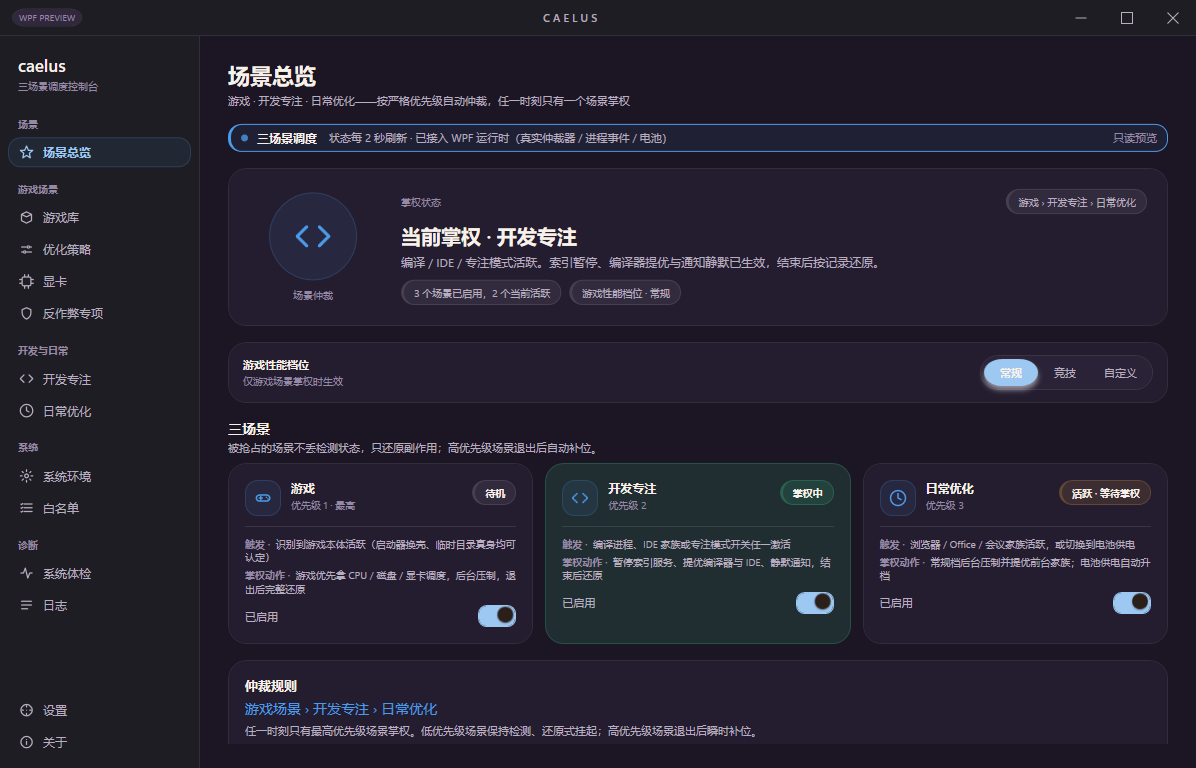
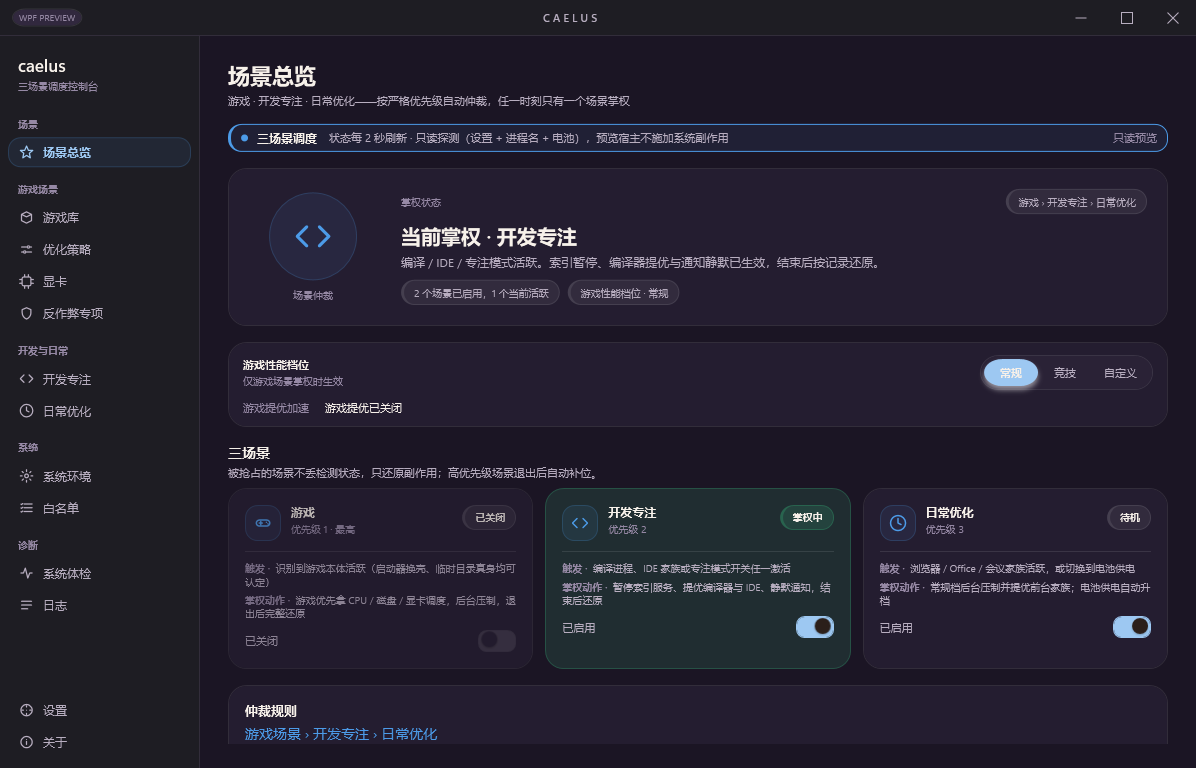
feat: 页面标题与副标题接入语言表——6 页视图+4 对话框页头（标题复用 nav.*/scan.title/def.title 等现成键，副标题新增 wpf.*.sub 13 键）/EnvironmentViewModel 与场景详情页副标题改键/单图模式补 Lang.Init/重拍概览 README 截图（含提优加速与 CPU 拓扑新行）

diff --git a/wpf/Views/OverviewView.xaml b/wpf/Views/OverviewView.xaml
@@ -63,8 +63,8 @@
                 AutomationProperties.Name="三场景调度总览内容">
     <StackPanel Margin="0,0,0,16">
       <StackPanel x:Name="ZoneHeader" Margin="0,0,0,16">
-        <TextBlock Text="场景总览" Style="{DynamicResource PageHeader}"/>
-        <TextBlock Text="游戏 · 开发专注 · 日常优化——按严格优先级自动仲裁，任一时刻只有一个场景掌权"
+        <TextBlock x:Name="HdrTitle" Text="场景总览" Style="{DynamicResource PageHeader}"/>
+        <TextBlock x:Name="HdrSub" Text="游戏 · 开发专注 · 日常优化——按严格优先级自动仲裁，任一时刻只有一个场景掌权"
                    Style="{DynamicResource PageSubtitle}"
                    Margin="0,4,0,0" TextWrapping="Wrap"/>
       </StackPanel>

diff --git a/wpf/Views/SettingsView.xaml b/wpf/Views/SettingsView.xaml
@@ -7,8 +7,8 @@
   <ScrollViewer VerticalScrollBarVisibility="Auto" HorizontalScrollBarVisibility="Disabled">
     <StackPanel Margin="0,0,0,16">
       <StackPanel x:Name="ZoneHeader" Margin="0,0,0,16">
-        <TextBlock Text="设置" Style="{DynamicResource PageHeader}"/>
-        <TextBlock Text="三场景开关、应用偏好与维护工具" Style="{DynamicResource PageSubtitle}"/>
+        <TextBlock x:Name="HdrTitle" Text="设置" Style="{DynamicResource PageHeader}"/>
+        <TextBlock x:Name="HdrSub" Text="三场景开关、应用偏好与维护工具" Style="{DynamicResource PageSubtitle}"/>
       </StackPanel>
 
       <Border x:Name="ZoneSummary" Style="{DynamicResource StatusBanner}" Margin="0,0,0,16" Padding="14,11">

diff --git a/wpf/Dialogs/RunningPickerDialogWpf.xaml b/wpf/Dialogs/RunningPickerDialogWpf.xaml
@@ -18,8 +18,8 @@
     </Grid.RowDefinitions>
 
     <StackPanel Grid.Row="0" Margin="0,0,0,18">
-      <TextBlock Text="选运行中的程序" Style="{DynamicResource PageHeader}"/>
-      <TextBlock Text="只列出你自己开着的、有窗口的程序。系统进程和反作弊不在其中。"
+      <TextBlock x:Name="HdrTitle" Text="选运行中的程序" Style="{DynamicResource PageHeader}"/>
+      <TextBlock x:Name="HdrSub" Text="只列出你自己开着的、有窗口的程序。系统进程和反作弊不在其中。"
                  Style="{DynamicResource PageSubtitle}" Margin="0,4,0,0"
                  TextWrapping="Wrap"/>
     </StackPanel>

diff --git a/wpf/Views/AboutView.xaml b/wpf/Views/AboutView.xaml
@@ -5,8 +5,8 @@
   <ScrollViewer VerticalScrollBarVisibility="Auto" HorizontalScrollBarVisibility="Disabled">
     <StackPanel Margin="0,0,0,16">
       <StackPanel x:Name="ZoneHeader" Margin="0,0,0,16">
-        <TextBlock Text="关于" Style="{DynamicResource PageHeader}"/>
-        <TextBlock Text="版本、项目与更新" Style="{DynamicResource PageSubtitle}"/>
+        <TextBlock x:Name="HdrTitle" Text="关于" Style="{DynamicResource PageHeader}"/>
+        <TextBlock x:Name="HdrSub" Text="版本、项目与更新" Style="{DynamicResource PageSubtitle}"/>
       </StackPanel>
 
       <Grid x:Name="ZoneBrand" Margin="2,0,2,20">

diff --git a/wpf/Views/PolicyView.xaml b/wpf/Views/PolicyView.xaml
@@ -50,8 +50,8 @@
   <ScrollViewer VerticalScrollBarVisibility="Auto" HorizontalScrollBarVisibility="Disabled">
     <StackPanel Margin="0,0,0,16">
       <StackPanel x:Name="ZoneHeader" Margin="0,0,0,16">
-        <TextBlock Text="优化策略" Style="{DynamicResource PageHeader}"/>
-        <TextBlock Text="调度与压制的生效策略"
+        <TextBlock x:Name="HdrTitle" Text="优化策略" Style="{DynamicResource PageHeader}"/>
+        <TextBlock x:Name="HdrSub" Text="调度与压制的生效策略"
                    Style="{DynamicResource PageSubtitle}"
                    Margin="0,4,0,0"/>
       </StackPanel>

diff --git a/wpf/Dialogs/LolAddonDialogWpf.xaml b/wpf/Dialogs/LolAddonDialogWpf.xaml
@@ -21,8 +21,8 @@
     </Grid.RowDefinitions>
 
     <StackPanel Grid.Row="0" Margin="0,0,0,16">
-      <TextBlock Text="英雄联盟附加层清理" Style="{DynamicResource PageHeader}"/>
-      <TextBlock Text="检查并删除客户端附加组件，不触碰游戏本体与登录链路"
+      <TextBlock x:Name="HdrTitle" Text="英雄联盟附加层清理" Style="{DynamicResource PageHeader}"/>
+      <TextBlock x:Name="HdrSub" Text="检查并删除客户端附加组件，不触碰游戏本体与登录链路"
                  Style="{DynamicResource PageSubtitle}" Margin="0,4,0,0"/>
     </StackPanel>
 

diff --git a/wpf/Dialogs/DefenderExclusionDialogWpf.xaml b/wpf/Dialogs/DefenderExclusionDialogWpf.xaml
@@ -19,8 +19,8 @@
     </Grid.RowDefinitions>
 
     <StackPanel Grid.Row="0" Margin="0,0,0,16">
-      <TextBlock Text="Defender 扫描排除" Style="{DynamicResource PageHeader}"/>
-      <TextBlock Text="按游戏目录管理实时扫描排除；只移除由 Caelus 添加的项目"
+      <TextBlock x:Name="HdrTitle" Text="Defender 扫描排除" Style="{DynamicResource PageHeader}"/>
+      <TextBlock x:Name="HdrSub" Text="按游戏目录管理实时扫描排除；只移除由 Caelus 添加的项目"
                  Style="{DynamicResource PageSubtitle}" Margin="0,4,0,0"/>
     </StackPanel>
 

diff --git a/wpf/Views/LogView.xaml b/wpf/Views/LogView.xaml
@@ -9,8 +9,8 @@
     </Grid.RowDefinitions>
 
     <StackPanel x:Name="ZoneHeader" Grid.Row="0" Margin="0,0,0,16">
-      <TextBlock Text="日志" Style="{DynamicResource PageHeader}"/>
-      <TextBlock Text="运行记录与诊断" Style="{DynamicResource PageSubtitle}"/>
+      <TextBlock x:Name="HdrTitle" Text="日志" Style="{DynamicResource PageHeader}"/>
+      <TextBlock x:Name="HdrSub" Text="运行记录与诊断" Style="{DynamicResource PageSubtitle}"/>
     </StackPanel>
 
     <Border Grid.Row="1" Style="{DynamicResource CardBorder}" Padding="0" ClipToBounds="True">

diff --git a/wpf/Dialogs/AddGameDialogWpf.xaml b/wpf/Dialogs/AddGameDialogWpf.xaml
@@ -18,8 +18,8 @@
     </Grid.RowDefinitions>
 
     <StackPanel Grid.Row="0" Margin="0,0,0,18">
-      <TextBlock Text="添加游戏" Style="{DynamicResource PageHeader}"/>
-      <TextBlock Text="从安装记录中选择，或手动定位游戏主程序"
+      <TextBlock x:Name="HdrTitle" Text="添加游戏" Style="{DynamicResource PageHeader}"/>
+      <TextBlock x:Name="HdrSub" Text="从安装记录中选择，或手动定位游戏主程序"
                  Style="{DynamicResource PageSubtitle}" Margin="0,4,0,0"/>
     </StackPanel>
 

diff --git a/wpf/Views/LibraryView.xaml b/wpf/Views/LibraryView.xaml
@@ -11,8 +11,8 @@
     </Grid.RowDefinitions>
 
     <StackPanel x:Name="ZoneHeader" Grid.Row="0" Margin="0,0,0,16">
-      <TextBlock Text="游戏库" Style="{DynamicResource PageHeader}"/>
-      <TextBlock Text="管理游戏主程序并查看当前运行状态"
+      <TextBlock x:Name="HdrTitle" Text="游戏库" Style="{DynamicResource PageHeader}"/>
+      <TextBlock x:Name="HdrSub" Text="管理游戏主程序并查看当前运行状态"
                  Style="{DynamicResource PageSubtitle}"/>
     </StackPanel>
 

diff --git a/wpf/Views/SettingsView.xaml.cs b/wpf/Views/SettingsView.xaml.cs
@@ -26,6 +26,8 @@ namespace CaelusApp.WpfHost.Views
         public SettingsView()
         {
             InitializeComponent();
+            HdrTitle.Text = Lang.T("nav.set");
+            HdrSub.Text = Lang.T("wpf.settings.sub");
             Loaded += OnLoaded;
         }
 
@@ -494,6 +496,10 @@ namespace CaelusApp.WpfHost.Dialogs
                 refresh = FindName("BtnRefresh") as Button;
                 if (rowsHost == null || status == null || progress == null
                     || clearAll == null || refresh == null) return false;
+                TextBlock hdrTitle = FindName("HdrTitle") as TextBlock;
+                TextBlock hdrSub = FindName("HdrSub") as TextBlock;
+                if (hdrTitle != null) hdrTitle.Text = Lang.T("def.title");
+                if (hdrSub != null) hdrSub.Text = Lang.T("wpf.def.sub");
                 rowsHost.ItemsSource = rows;
                 return true;
             }
@@ -526,7 +532,7 @@ namespace CaelusApp.WpfHost.Dialogs
             StackPanel header = new StackPanel { Margin = new Thickness(0, 0, 0, 16) };
             TextBlock title = DialogUi.Text(Lang.T("def.title"), DialogUi.FontSize("FontSizeMetric"), DialogUi.Brush("TextPrimaryBrush", Brushes.Black));
             DialogUi.Style(title, "PageHeader");
-            TextBlock subtitle = DialogUi.Text("按游戏目录管理实时扫描排除；只移除由 Caelus 添加的项目", DialogUi.FontSize("FontSizeSmall"),
+            TextBlock subtitle = DialogUi.Text(Lang.T("wpf.def.sub"), DialogUi.FontSize("FontSizeSmall"),
                 DialogUi.Brush("TextSecondaryBrush", Brushes.Gray));
             DialogUi.Style(subtitle, "PageSubtitle"); subtitle.Margin = new Thickness(0, 4, 0, 0);
             header.Children.Add(title); header.Children.Add(subtitle);
@@ -896,6 +902,10 @@ namespace CaelusApp.WpfHost.Dialogs
                 deleteButton = FindName("BtnDelete") as Button;
                 if (pathBox == null || status == null || progress == null || list == null
                     || inspectButton == null || browseButton == null || deleteButton == null) return false;
+                TextBlock hdrTitle = FindName("HdrTitle") as TextBlock;
+                TextBlock hdrSub = FindName("HdrSub") as TextBlock;
+                if (hdrTitle != null) hdrTitle.Text = Lang.T("addon.title");
+                if (hdrSub != null) hdrSub.Text = Lang.T("wpf.addon.sub");
                 list.ItemsSource = candidates;
                 return true;
             }
@@ -927,7 +937,7 @@ namespace CaelusApp.WpfHost.Dialogs
             StackPanel header = new StackPanel { Margin = new Thickness(0, 0, 0, 16) };
             TextBlock title = DialogUi.Text(Lang.T("addon.title"), DialogUi.FontSize("FontSizeMetric"), DialogUi.Brush("TextPrimaryBrush", Brushes.Black));
             DialogUi.Style(title, "PageHeader");
-            TextBlock subtitle = DialogUi.Text("检查并删除客户端附加组件，不触碰游戏本体与登录链路", DialogUi.FontSize("FontSizeSmall"),
+            TextBlock subtitle = DialogUi.Text(Lang.T("wpf.addon.sub"), DialogUi.FontSize("FontSizeSmall"),
                 DialogUi.Brush("TextSecondaryBrush", Brushes.Gray));
             DialogUi.Style(subtitle, "PageSubtitle"); subtitle.Margin = new Thickness(0, 4, 0, 0);
             header.Children.Add(title); header.Children.Add(subtitle); Grid.SetRow(header, 0); root.Children.Add(header);

diff --git a/src/Platform/Lang.cs b/src/Platform/Lang.cs
@@ -37,6 +37,20 @@ namespace CaelusApp
             { "nav.group.system", new[]{ "系统" } },
             { "nav.group.diag", new[]{ "诊断" } },
             { "shell.subtitle", new[]{ "三场景调度控制台" } },
+            // WPF 宿主页面副标题（WPF 专属文案；标题复用上方 nav.* 键）
+            { "wpf.overview.sub", new[]{ "游戏 · 开发专注 · 日常优化——按严格优先级自动仲裁，任一时刻只有一个场景掌权" } },
+            { "wpf.library.sub", new[]{ "管理游戏主程序并查看当前运行状态" } },
+            { "wpf.policy.sub", new[]{ "调度与压制的生效策略" } },
+            { "wpf.log.sub", new[]{ "运行记录与诊断" } },
+            { "wpf.settings.sub", new[]{ "三场景开关、应用偏好与维护工具" } },
+            { "wpf.about.sub", new[]{ "版本、项目与更新" } },
+            { "wpf.env.sub", new[]{ "按生效范围整理系统底层设置。改动均可在本页恢复，只有标记“需重启”的项目需要重启。" } },
+            { "wpf.dev.sub", new[]{ "编译提速 · 专注免打扰 · 开发服务守护" } },
+            { "wpf.daily.sub", new[]{ "浏览器 / Office / 会议 · 电池供电 · 计划维护" } },
+            { "wpf.addon.sub", new[]{ "检查并删除客户端附加组件，不触碰游戏本体与登录链路" } },
+            { "wpf.addgame.sub", new[]{ "从安装记录中选择，或手动定位游戏主程序" } },
+            { "wpf.pick.sub", new[]{ "只列出你自己开着的、有窗口的程序。系统进程和反作弊不在其中。" } },
+            { "wpf.def.sub", new[]{ "按游戏目录管理实时扫描排除；只移除由 Caelus 添加的项目" } },
             { "v15.about.identity", new[]{ "Windows 性能守护" } },
             { "notes.title", new[]{ "版本说明" } },
             { "notes.sub", new[]{ "当前安装版本 {0}" } },
